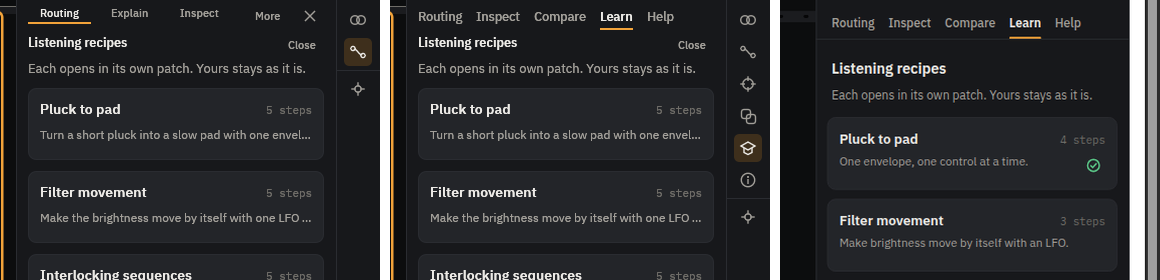
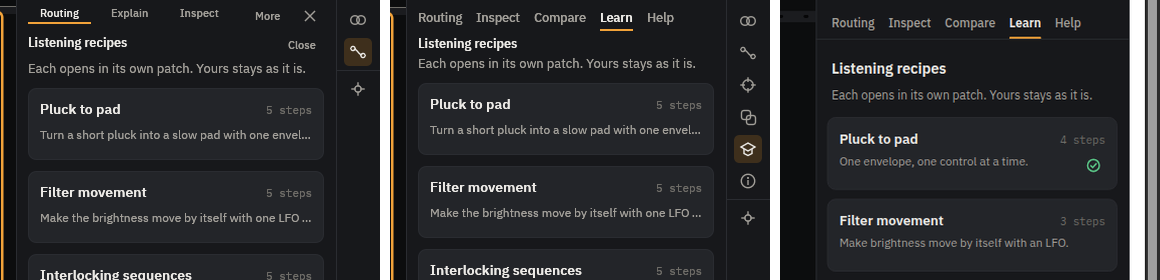
G4 sweep B: drop Close from Compare and Learn headers, recapture sweep-b crops
Compare and Learn are drawer tabs, so their panels lose the Close link; leaving Learn
for another tab ends the running recipe. The g23 crop was stale (captured at zoom 0.91,
above the 0.864 full-label threshold); at the mockup's 77 % the face reads Freq / PW.

Claude-Session: https://claude.ai/code/session_01Jy6KS9d4W8vQzW1hxHXCaw

diff --git a/crates/ui/src/recipes.rs b/crates/ui/src/recipes.rs
@@ -405,24 +405,13 @@ fn test_note(ui_state: &mut UiState, secs: f32) {
 pub fn panel(editor: &mut PatchEditor, ui_state: &mut UiState, ui: &mut egui::Ui, now: f64) {
     let st = ui_state.style.clone();
     let kb = |t: String| crate::kit::Button::new(&st, t).g4(28.0);
-    ui.horizontal(|ui| {
-        crate::kit::label(
-            ui,
-            &st,
-            crate::style::Role::H3,
-            crate::kit::Tone::Text,
-            "Listening recipes",
-        );
-        ui.with_layout(egui::Layout::right_to_left(egui::Align::Center), |ui| {
-            let r = ui.add(crate::kit::Button::new(&st, "Close").ghost().small());
-            ui_state.record("learn-close".into(), r.rect);
-            if r.clicked() {
-                // Keeps the current patch and its edits.
-                ui_state.recipes.open = false;
-                ui_state.recipes.active = None;
-            }
-        });
-    });
+    crate::kit::label(
+        ui,
+        &st,
+        crate::style::Role::H3,
+        crate::kit::Tone::Text,
+        "Listening recipes",
+    );
     if let Some(n) = ui_state.recipes.note.clone() {
         para(ui, n);
     }

diff --git a/crates/ui/src/compare.rs b/crates/ui/src/compare.rs
@@ -284,16 +284,7 @@ pub fn panel(editor: &mut PatchEditor, ui_state: &mut UiState, ui: &mut egui::Ui
     if std::mem::take(&mut ui_state.compare.reveal) {
         ui.scroll_to_cursor(Some(egui::Align::TOP));
     }
-    ui.horizontal(|ui| {
-        label(ui, st, Role::H3, Tone::Text, "Compare with a reference");
-        ui.with_layout(egui::Layout::right_to_left(egui::Align::Center), |ui| {
-            let r = ui.add(Button::new(st, "Close").ghost().small());
-            ui_state.record("compare-close".into(), r.rect);
-            if r.clicked() {
-                ui_state.compare.open = false;
-            }
-        });
-    });
+    label(ui, st, Role::H3, Tone::Text, "Compare with a reference");
     paragraph(
         ui,
         st,

diff --git a/crates/ui/tests/signal_inspection.rs b/crates/ui/tests/signal_inspection.rs
@@ -814,7 +814,7 @@ fn a_recipe_starts_through_the_unsaved_question_and_exit_keeps_the_patch() {
         }
         assert_eq!(h.ui.recipes.active.as_ref().unwrap().step, 5);
         let kept = h.editor.state().clone();
-        h.click("learn-close");
+        h.click("routing-tab");
         assert!(h.ui.recipes.active.is_none());
         assert_eq!(h.editor.state(), &kept);
         assert_eq!(kept.modules[&6].params["sustain"], 0.7);

diff --git a/crates/ui/src/drawer.rs b/crates/ui/src/drawer.rs
@@ -87,6 +87,10 @@ pub fn current(ui_state: &UiState) -> Tab {
 
 /// Shows `tab` and closes the others.
 pub fn open(ui_state: &mut UiState, tab: Tab) {
+    if tab != Tab::Learn {
+        // Leaving Learn keeps the patch and its edits, and ends the running recipe.
+        ui_state.recipes.active = None;
+    }
     ui_state.explain.close();
     ui_state.inspect.open = false;
     ui_state.compare.open = false;
